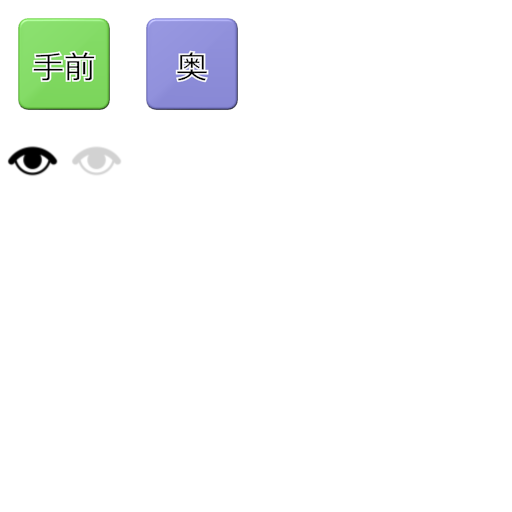
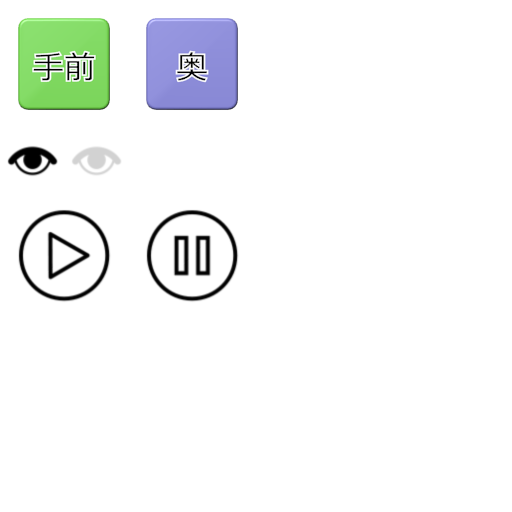
・アニメーション再生ボタンとループ再生を実装

Changed region(s): [[0.2812, 0.4062, 0.4688, 0.5938], [0.0312, 0.4062, 0.2188, 0.5938]]

diff --git a/ManualTracingTool/app.ts b/ManualTracingTool/app.ts
@@ -1031,6 +1031,9 @@ namespace ManualTracingTool {
 
         run() {
 
+            let context = this.toolContext;
+            let env = this.toolEnv;
+
             if (this.isDeferredWindowResizeWaiting) {
 
                 this.isDeferredWindowResizeWaiting = false;
@@ -1040,7 +1043,7 @@ namespace ManualTracingTool {
                 this.toolEnv.setRedrawAllWindows();
             }
 
-            // process animation time
+            // Process animation time
 
             let currentTime = (new Date().getTime());
             if (this.lastTime == 0) {
@@ -1057,6 +1060,25 @@ namespace ManualTracingTool {
             if (this.selectCurrentLayerAnimationTime < 0) {
 
                 this.selectCurrentLayerAnimationTime = 0;
+            }
+
+            // Process animation
+
+            if (context.animationPlaying) {
+
+                let aniSetting = context.document.animationSettingData;
+
+                aniSetting.currentTimeFrame += 1;
+
+                if (aniSetting.currentTimeFrame >= aniSetting.loopEndFrame) {
+
+                    aniSetting.currentTimeFrame = aniSetting.loopStartFrame;
+                }
+
+                this.setCurrentFrame(aniSetting.currentTimeFrame);
+
+                env.setRedrawMainWindow();
+                env.setRedrawTimeLineWindow();
             }
         }
 
@@ -1997,7 +2019,35 @@ namespace ManualTracingTool {
             let env = this.toolEnv;
             let aniSetting = context.document.animationSettingData;
 
-            this.timeLineWindow_ProcessFrameInput(e);
+            let left = wnd.getTimeLineLeft();
+
+            if (e.offsetX < left) {
+
+                this.timeLineWindow_OnPlayPauseButton(e);
+            }
+            else {
+
+                this.timeLineWindow_ProcessFrameInput(e);
+            }
+        }
+
+        private timeLineWindow_OnPlayPauseButton(e: ToolMouseEvent) {
+
+            let context = this.toolContext;
+            let env = this.toolEnv;
+            let aniSetting = context.document.animationSettingData;
+
+            if (context.animationPlaying) {
+
+                context.animationPlaying = false;
+
+                env.setRedrawTimeLineWindow();
+            }
+            else {
+
+                context.animationPlaying = true;
+                context.animationPlayingFPS = aniSetting.animationFrameParSecond;
+            }
         }
 
         private timeLineWindow_ProcessFrameInput(e: ToolMouseEvent) {
@@ -4914,6 +4964,7 @@ namespace ManualTracingTool {
 
             let left = wnd.getTimeLineLeft();
             let right = wnd.getTimeLineRight();
+            let bottom = wnd.height;
             let frameUnitWidth = wnd.getFrameUnitWidth(aniSetting);
 
             let frameNumberHeight = 16.0;
@@ -4921,17 +4972,49 @@ namespace ManualTracingTool {
             let frameLineHeight = 10.0;
             let secondFrameLineHeight = 30.0;
 
+            // Control buttons
+
+            //アニメーション再生開始、終了のボタンを描画する。ボタンでアニメーション再生、停止をする。Ctrl+クリックで最初から再生。十字キーでのフレーム移動を約24fpsにする。
+            {
+                let srcX = 0;
+                let srcY = 196;
+                let srcW = 128;
+                let srcH = 128;
+                let dstW = 45;
+                let dstH = 45;
+                let dstX = left / 2 - dstW / 2 + 1;
+                let dstY = wnd.height / 2 - dstH / 2 + 1;
+
+                if (context.animationPlaying) {
+
+                    srcX = 128;
+                }
+
+                this.canvasRender.drawImage(this.systemImage.image.imageData, srcX, srcY, srcW, srcH, dstX, dstY, dstW, dstH);
+            }
+
             // Current frame
 
             let currentFrameX = left - aniSetting.timeLineWindowViewLocationX + aniSetting.currentTimeFrame * frameUnitWidth;
             this.canvasRender.setStrokeWidth(1.0);
             this.canvasRender.setFillColorV(this.drawStyle.timeLineCurrentFrameColor);
-            this.canvasRender.fillRect(currentFrameX, 0.0, frameUnitWidth, wnd.height);
+            this.canvasRender.fillRect(currentFrameX, 0.0, frameUnitWidth, bottom);
+
+            aniSetting.maxFrame = 60;
+            //aniSetting.loopStartFrame = 10;
+            aniSetting.loopEndFrame = 24;
 
             // Document keyframes
 
-            let minKeyFrame = wnd.getFrameByLocation(left, aniSetting);
-            let maxKeyFrame = wnd.getFrameByLocation(right, aniSetting);
+            let minFrame = wnd.getFrameByLocation(left, aniSetting);
+            if (minFrame < 0) {
+                minFrame = 0;
+            }
+
+            let maxFrame = wnd.getFrameByLocation(right, aniSetting);
+            if (maxFrame > aniSetting.maxFrame) {
+                maxFrame = aniSetting.maxFrame;
+            }
 
             this.canvasRender.setStrokeWidth(1.0);
             this.canvasRender.setFillColorV(this.drawStyle.timeLineKeyFrameColor);
@@ -4940,16 +5023,33 @@ namespace ManualTracingTool {
 
                 let frame = viewKeyframe.frame;
 
-                if (frame < minKeyFrame) {
+                if (frame < minFrame) {
                     continue;
                 }
 
-                if (frame > maxKeyFrame) {
+                if (frame > maxFrame) {
                     break;
                 }
 
                 let frameX = wnd.getFrameLocation(frame, aniSetting);
                 this.canvasRender.fillRect(frameX, 0.0, frameUnitWidth - 1.0, frameLineBottom);
+            }
+
+            // Loop part
+            this.canvasRender.setFillColorV(this.drawStyle.timeLineOutOfLoopingColor);
+            {
+                let frameX = wnd.getFrameLocation(aniSetting.loopStartFrame, aniSetting);
+                if (frameX > left) {
+
+                    this.canvasRender.fillRect(left, 0.0, frameX - left, bottom);
+                }
+            }
+            {
+                let frameX = wnd.getFrameLocation(aniSetting.loopEndFrame, aniSetting);
+                if (frameX < right) {
+
+                    this.canvasRender.fillRect(frameX, 0.0, right - frameX, bottom);
+                }
             }
 
             // Layer keyframes
@@ -4972,11 +5072,11 @@ namespace ManualTracingTool {
 
                         let frame = viewKeyframe.frame;
 
-                        if (frame < minKeyFrame) {
+                        if (frame < minFrame) {
                             continue;
                         }
 
-                        if (frame > maxKeyFrame) {
+                        if (frame > maxFrame) {
                             break;
                         }
 
@@ -5001,15 +5101,19 @@ namespace ManualTracingTool {
             this.canvasRender.drawLine(left, 0.0, left, wnd.height);
 
             // Frame measure
+            {
+                let x = left;
+                for (let frame = minFrame; frame <= maxFrame; frame++) {
 
-            for (let x = left; x <= right; x += frameUnitWidth) {
+                    if (frame % aniSetting.animationFrameParSecond == 0 || frame == maxFrame) {
 
-                this.canvasRender.drawLine(x, frameLineBottom - frameLineHeight, x, frameLineBottom);
-            }
+                        this.canvasRender.drawLine(x, frameLineBottom - secondFrameLineHeight, x, frameLineBottom);
+                    }
 
-            for (let x = left; x <= right; x += frameUnitWidth * aniSetting.animationFrameParSecond) {
+                    this.canvasRender.drawLine(x, frameLineBottom - frameLineHeight, x, frameLineBottom);
 
-                this.canvasRender.drawLine(x, frameLineBottom - secondFrameLineHeight, x, frameLineBottom);
+                    x += frameUnitWidth;
+                }
             }
 
             this.canvasRender.drawLine(left, frameLineBottom, right, frameLineBottom);
@@ -5716,6 +5820,13 @@ namespace ManualTracingTool {
             _Main.processLoadingDocumentResources();
         }
 
-        setTimeout(run, 1000 / 60);
+        if (_Main.toolContext != null && _Main.toolContext.animationPlaying) {
+
+            setTimeout(run, 1000 / _Main.toolContext.animationPlayingFPS);
+        }
+        else {
+
+            setTimeout(run, 1000 / 60);
+        }
     }
 }

diff --git a/ManualTracingTool/base_tool.ts b/ManualTracingTool/base_tool.ts
@@ -154,6 +154,9 @@ namespace ManualTracingTool {
         altKey: boolean = false;
         ctrlKey: boolean = false;
 
+        animationPlaying = false;
+        animationPlayingFPS = 24;
+
         posing3DView: Posing3DView = null;
         posing3DLogic: Posing3DLogic = null;
     }
@@ -426,6 +429,7 @@ namespace ManualTracingTool {
         timeLineCurrentFrameColor = vec4.fromValues(0.2, 1.0, 0.2, 0.5);
         timeLineKeyFrameColor = vec4.fromValues(0.0, 0.0, 1.0, 0.1);
         timeLineLayerKeyFrameColor = vec4.fromValues(0.8, 0.8, 0.0, 1.0);
+        timeLineOutOfLoopingColor = vec4.fromValues(0.0, 0.0, 0.0, 0.1);
 
         generalLinePointRadius = 2.0;
         selectedLinePointRadius = 3.0;
